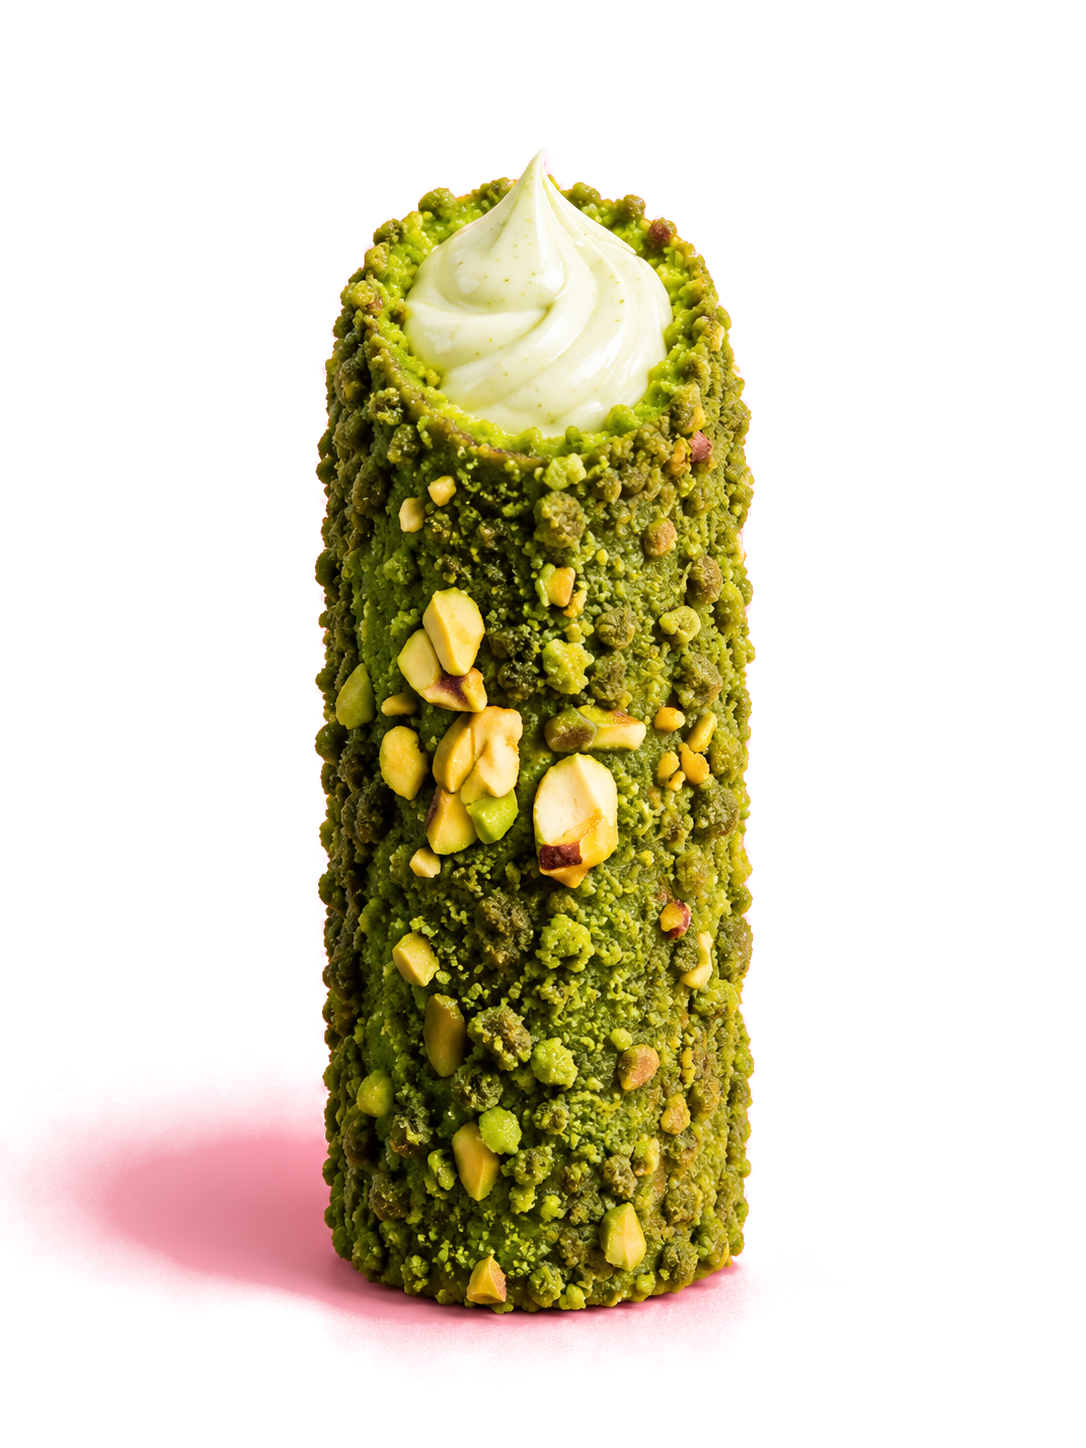
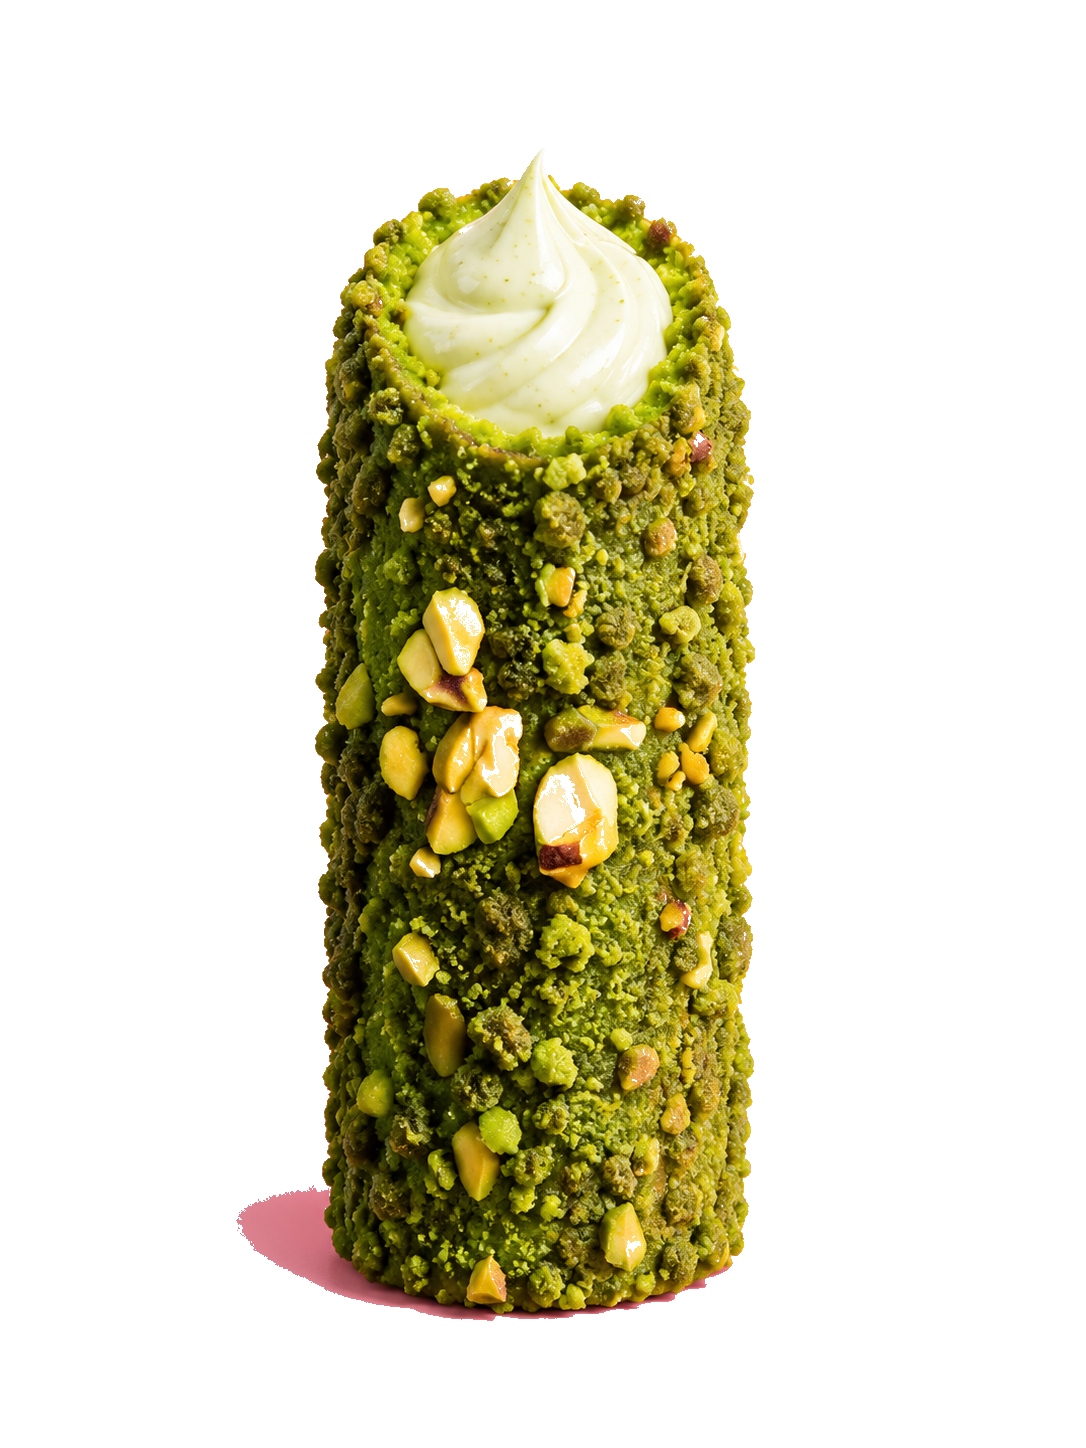
Remove pink background shadows from all flavour PNG images

diff --git a/src/components/Flavours.tsx b/src/components/Flavours.tsx
@@ -158,7 +158,7 @@ export default function Flavours() {
                   src={item.image}
                   alt={item.name}
                   fill
-                  className="object-cover object-center drop-shadow-2xl transition-transform duration-500 group-hover:scale-110 group-hover:-translate-y-2"
+                  className="object-contain object-center drop-shadow-[0_12px_20px_rgba(0,0,0,0.18)] transition-transform duration-500 group-hover:scale-110 group-hover:-translate-y-2"
                   sizes="(max-width: 640px) 140px, (max-width: 1024px) 200px, 280px"
                 />
               </div>
